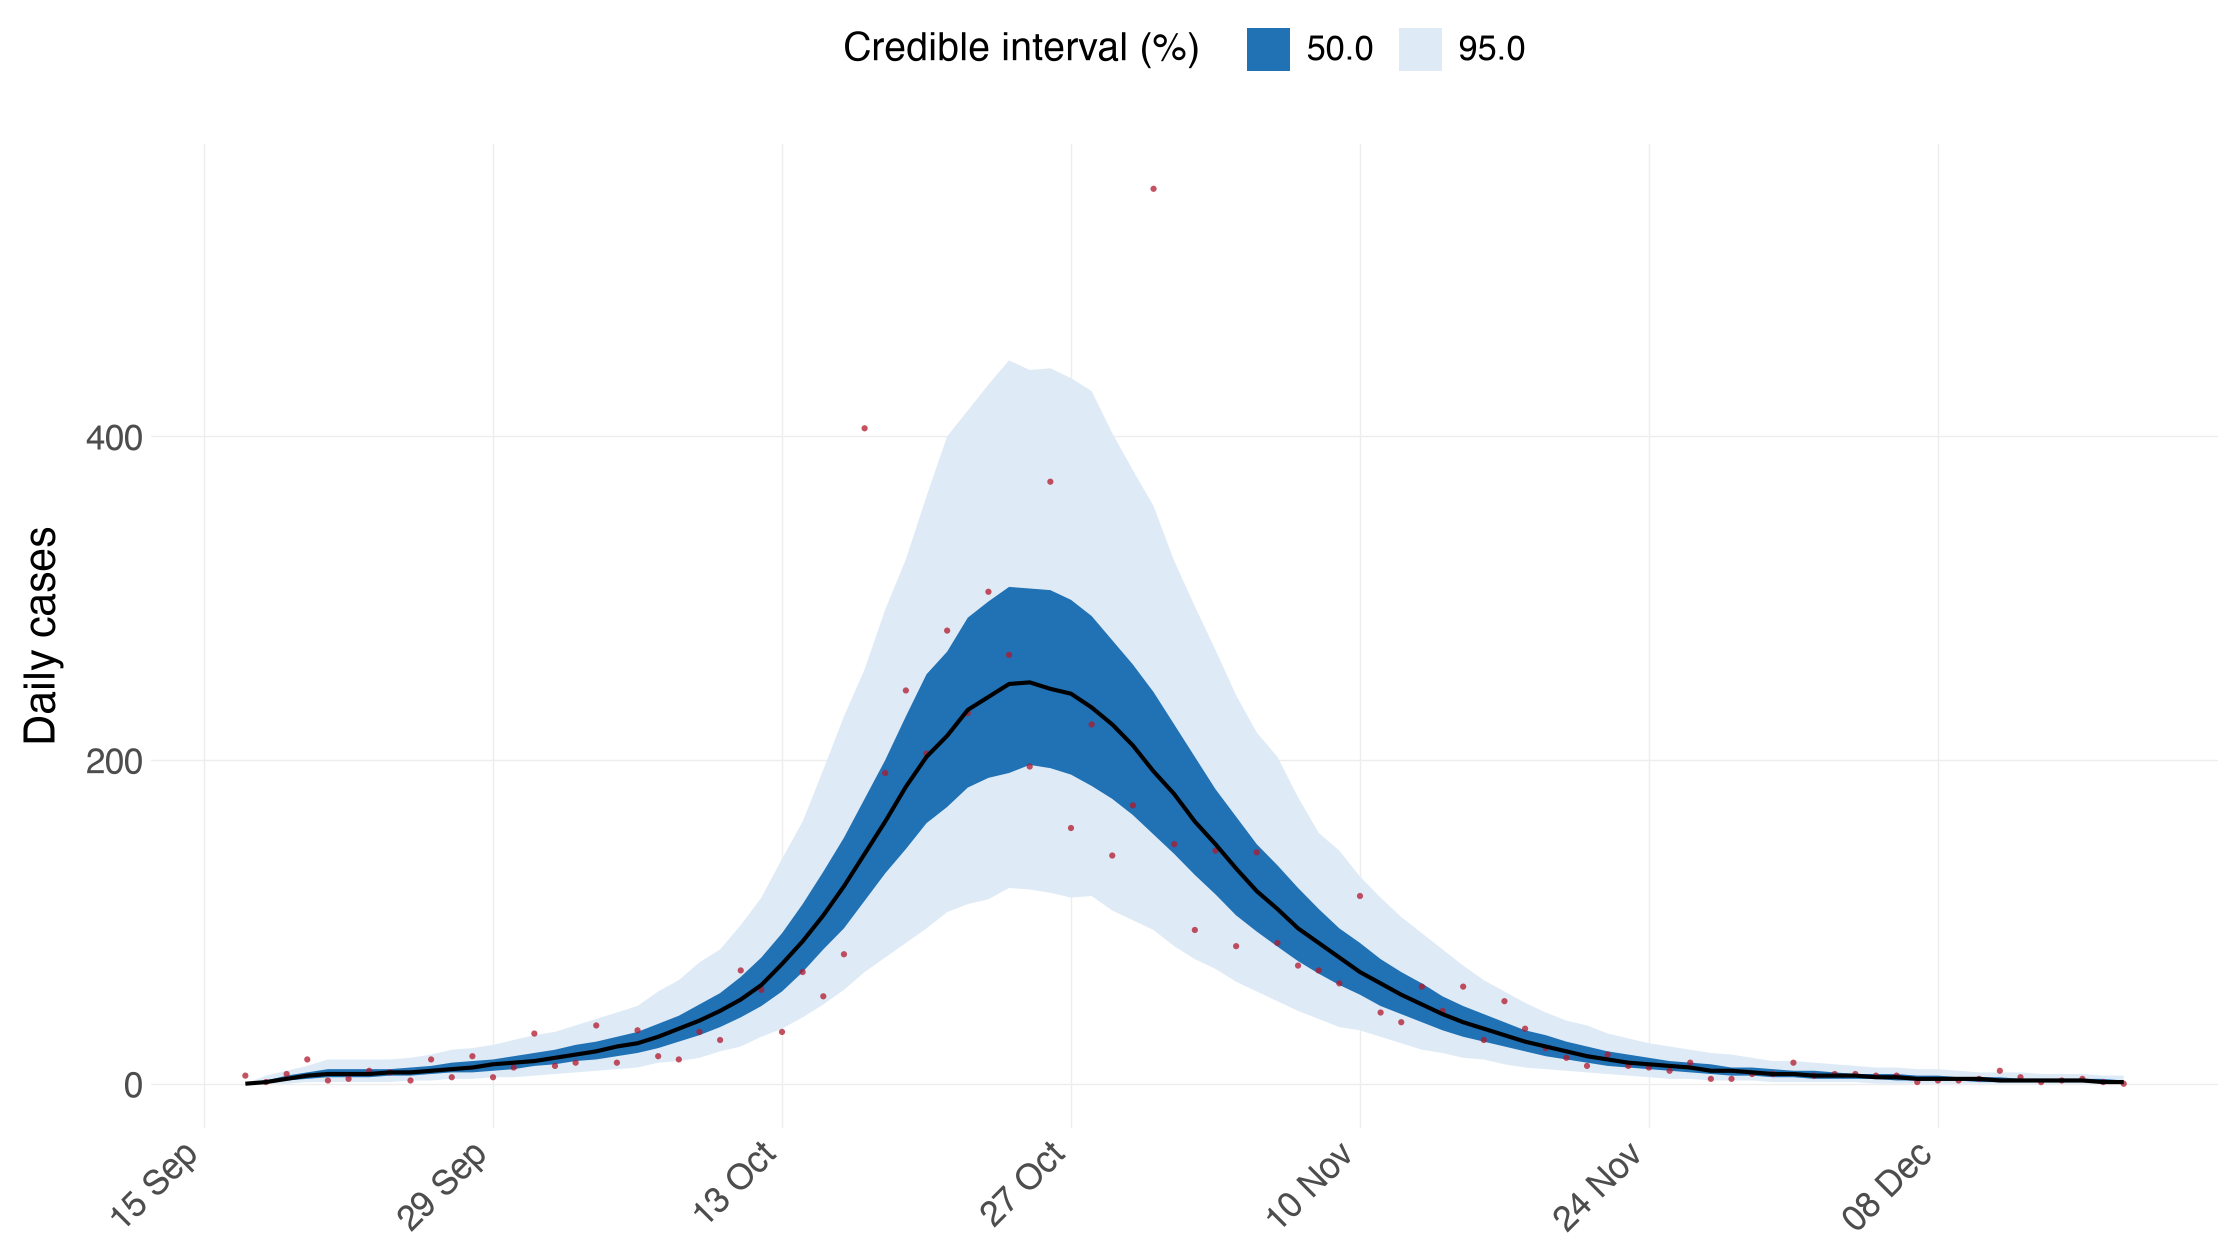
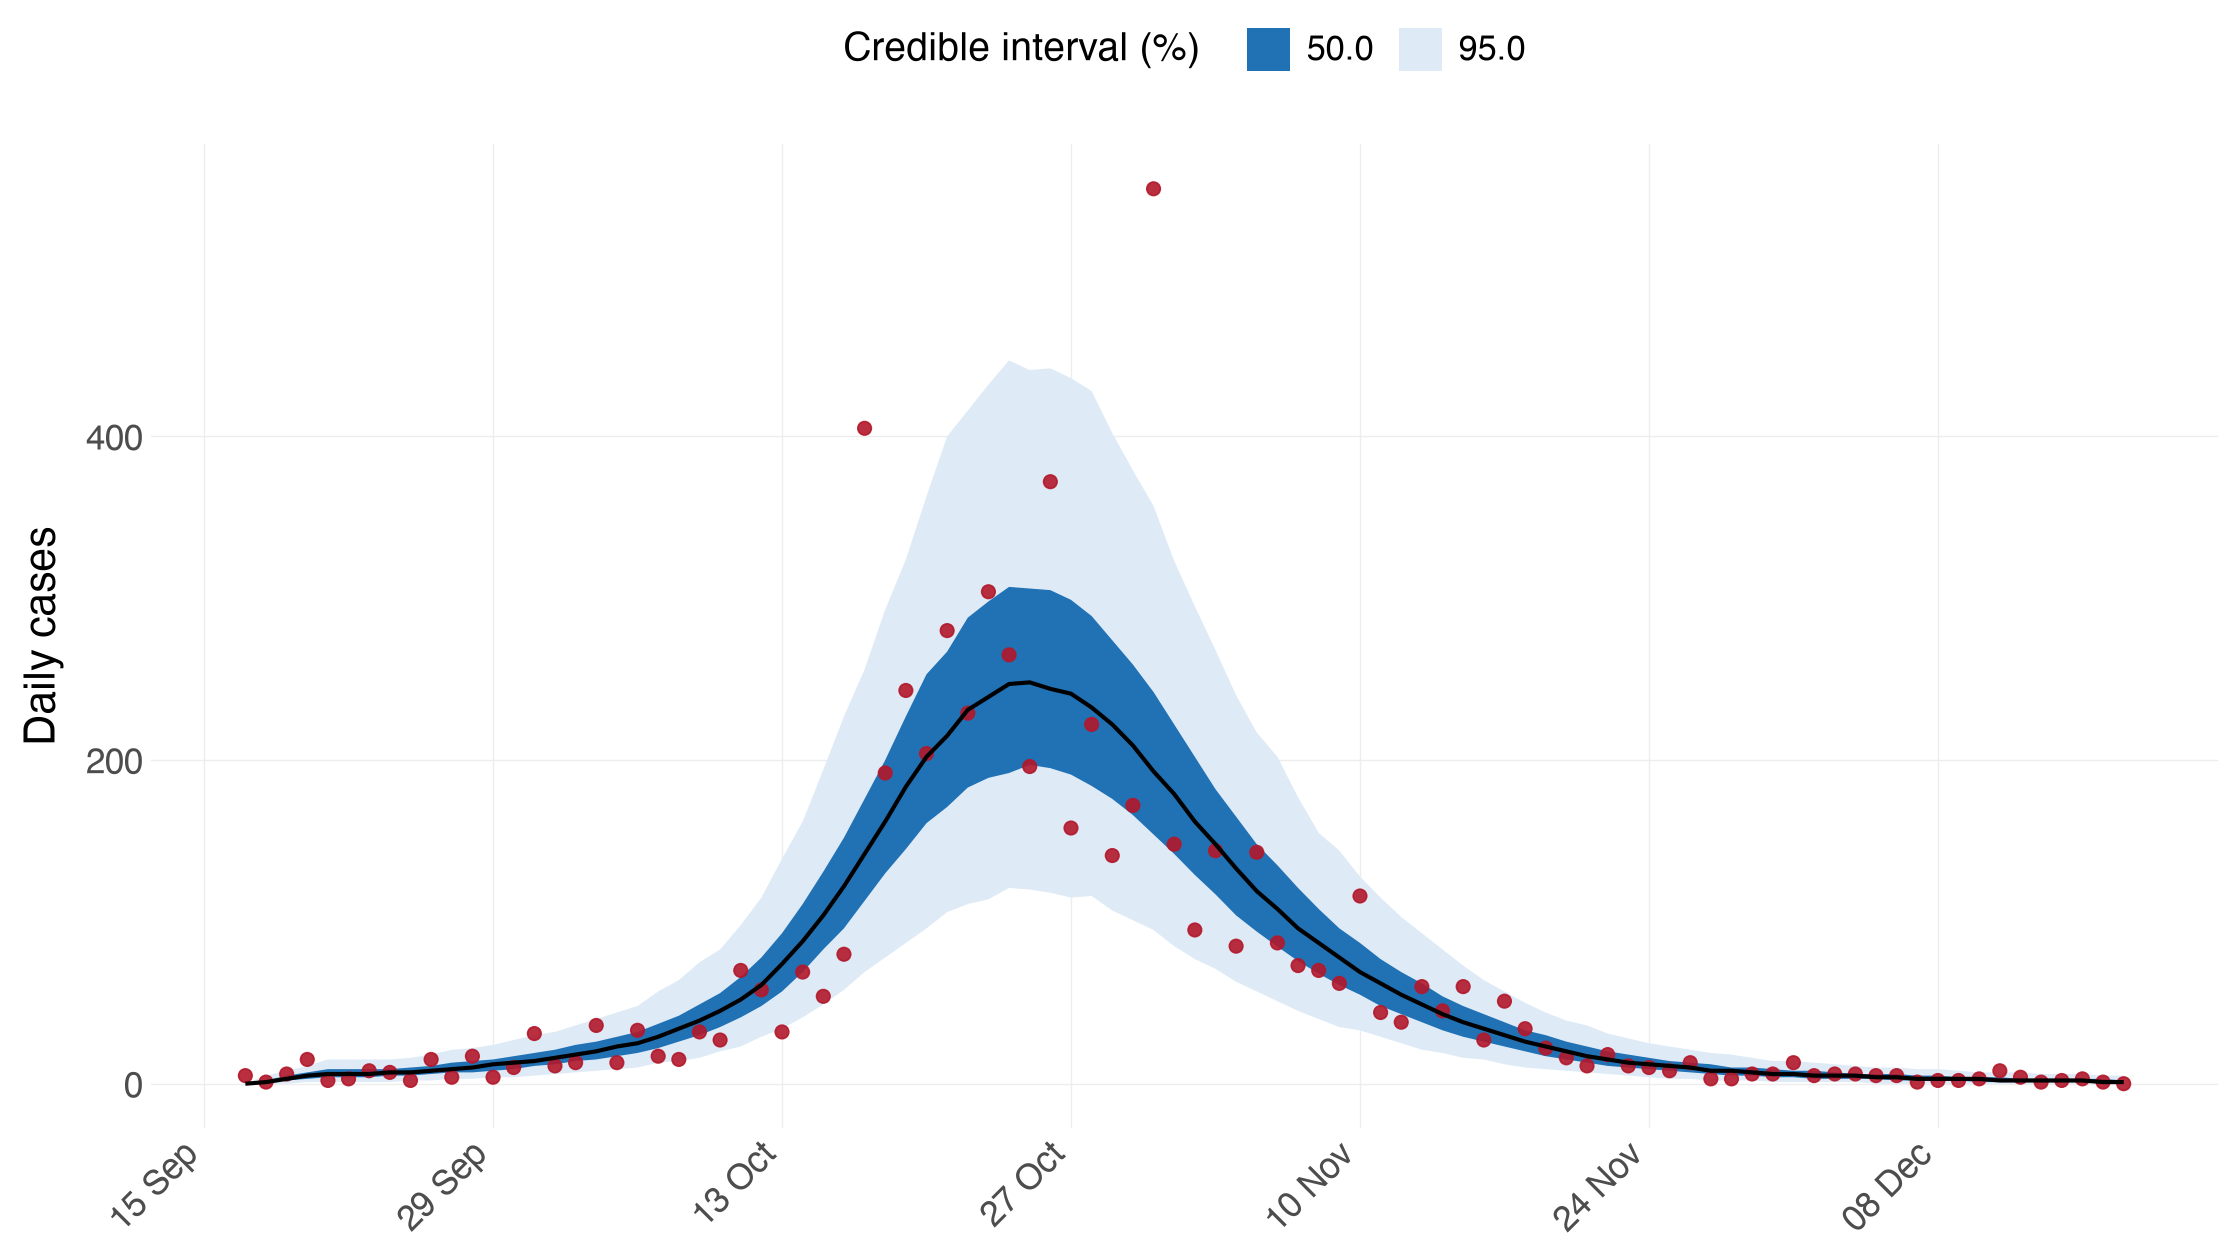
Re-bake the Python tutorials with visible observation points
All six pages regenerated so the published figures carry the larger observed
markers from 664c5f2 -- at size 0.9 with stroke=0 they were near-invisible
against the credible ribbons, which defeats the purpose of a posterior
predictive check.

The docs stamp is written automatically because this was a full bake; both
halves now report fresh, so `make docs-check` confirms the published numbers
correspond to the committed source.

Verified in the baked output rather than assumed: no tracebacks in any page, the
removed model comparison leaves no trace in flaxman.md, and b117.md still lands
on the published advantage (1.68 / 1.77 / 1.94 against 1.68 / 1.76 / 1.94).

diff --git a/python/docs/tutorials/flaxman.md b/python/docs/tutorials/flaxman.md
@@ -87,13 +87,6 @@ from epidemia.core import (
 from epidemia.priors import normal, shifted_gamma
 ```
 
-    /Users/smishra/Documents/GitHub/epidemia/python/.venv/lib/python3.12/site-packages/arviz/__init__.py:50: FutureWarning: 
-    ArviZ is undergoing a major refactor to improve flexibility and extensibility while maintaining a user-friendly interface.
-    Some upcoming changes may be backward incompatible.
-    For details and migration guidance, visit: https://python.arviz.org/en/latest/user_guide/migration_guide.html
-      warn(
-
-
 ## Data
 
 The same 11 countries and five interventions both models use.
@@ -233,17 +226,17 @@ print(f"{len(panel.regions)} countries, {panel.X.shape[2]} NPIs, "
 print("NPI order:", NPIS)
 ```
 
-    /var/folders/3b/9h2hhrtd6m10021mpjqtv6s40000gn/T/ipykernel_76867/730704751.py:64: UserWarning: 'Austria': only 0 day(s) before cumulative _win exceeded 0, fewer than seed_offset=1; starting at the first available day.
-    /var/folders/3b/9h2hhrtd6m10021mpjqtv6s40000gn/T/ipykernel_76867/730704751.py:64: UserWarning: 'Belgium': only 0 day(s) before cumulative _win exceeded 0, fewer than seed_offset=1; starting at the first available day.
-    /var/folders/3b/9h2hhrtd6m10021mpjqtv6s40000gn/T/ipykernel_76867/730704751.py:64: UserWarning: 'Denmark': only 0 day(s) before cumulative _win exceeded 0, fewer than seed_offset=1; starting at the first available day.
-    /var/folders/3b/9h2hhrtd6m10021mpjqtv6s40000gn/T/ipykernel_76867/730704751.py:64: UserWarning: 'France': only 0 day(s) before cumulative _win exceeded 0, fewer than seed_offset=1; starting at the first available day.
-    /var/folders/3b/9h2hhrtd6m10021mpjqtv6s40000gn/T/ipykernel_76867/730704751.py:64: UserWarning: 'Germany': only 0 day(s) before cumulative _win exceeded 0, fewer than seed_offset=1; starting at the first available day.
-    /var/folders/3b/9h2hhrtd6m10021mpjqtv6s40000gn/T/ipykernel_76867/730704751.py:64: UserWarning: 'Italy': only 0 day(s) before cumulative _win exceeded 0, fewer than seed_offset=1; starting at the first available day.
-    /var/folders/3b/9h2hhrtd6m10021mpjqtv6s40000gn/T/ipykernel_76867/730704751.py:64: UserWarning: 'Norway': only 0 day(s) before cumulative _win exceeded 0, fewer than seed_offset=1; starting at the first available day.
-    /var/folders/3b/9h2hhrtd6m10021mpjqtv6s40000gn/T/ipykernel_76867/730704751.py:64: UserWarning: 'Spain': only 0 day(s) before cumulative _win exceeded 0, fewer than seed_offset=1; starting at the first available day.
-    /var/folders/3b/9h2hhrtd6m10021mpjqtv6s40000gn/T/ipykernel_76867/730704751.py:64: UserWarning: 'Sweden': only 0 day(s) before cumulative _win exceeded 0, fewer than seed_offset=1; starting at the first available day.
-    /var/folders/3b/9h2hhrtd6m10021mpjqtv6s40000gn/T/ipykernel_76867/730704751.py:64: UserWarning: 'Switzerland': only 0 day(s) before cumulative _win exceeded 0, fewer than seed_offset=1; starting at the first available day.
-    /var/folders/3b/9h2hhrtd6m10021mpjqtv6s40000gn/T/ipykernel_76867/730704751.py:64: UserWarning: 'United_Kingdom': only 0 day(s) before cumulative _win exceeded 0, fewer than seed_offset=1; starting at the first available day.
+    /var/folders/3b/9h2hhrtd6m10021mpjqtv6s40000gn/T/ipykernel_95919/730704751.py:64: UserWarning: 'Austria': only 0 day(s) before cumulative _win exceeded 0, fewer than seed_offset=1; starting at the first available day.
+    /var/folders/3b/9h2hhrtd6m10021mpjqtv6s40000gn/T/ipykernel_95919/730704751.py:64: UserWarning: 'Belgium': only 0 day(s) before cumulative _win exceeded 0, fewer than seed_offset=1; starting at the first available day.
+    /var/folders/3b/9h2hhrtd6m10021mpjqtv6s40000gn/T/ipykernel_95919/730704751.py:64: UserWarning: 'Denmark': only 0 day(s) before cumulative _win exceeded 0, fewer than seed_offset=1; starting at the first available day.
+    /var/folders/3b/9h2hhrtd6m10021mpjqtv6s40000gn/T/ipykernel_95919/730704751.py:64: UserWarning: 'France': only 0 day(s) before cumulative _win exceeded 0, fewer than seed_offset=1; starting at the first available day.
+    /var/folders/3b/9h2hhrtd6m10021mpjqtv6s40000gn/T/ipykernel_95919/730704751.py:64: UserWarning: 'Germany': only 0 day(s) before cumulative _win exceeded 0, fewer than seed_offset=1; starting at the first available day.
+    /var/folders/3b/9h2hhrtd6m10021mpjqtv6s40000gn/T/ipykernel_95919/730704751.py:64: UserWarning: 'Italy': only 0 day(s) before cumulative _win exceeded 0, fewer than seed_offset=1; starting at the first available day.
+    /var/folders/3b/9h2hhrtd6m10021mpjqtv6s40000gn/T/ipykernel_95919/730704751.py:64: UserWarning: 'Norway': only 0 day(s) before cumulative _win exceeded 0, fewer than seed_offset=1; starting at the first available day.
+    /var/folders/3b/9h2hhrtd6m10021mpjqtv6s40000gn/T/ipykernel_95919/730704751.py:64: UserWarning: 'Spain': only 0 day(s) before cumulative _win exceeded 0, fewer than seed_offset=1; starting at the first available day.
+    /var/folders/3b/9h2hhrtd6m10021mpjqtv6s40000gn/T/ipykernel_95919/730704751.py:64: UserWarning: 'Sweden': only 0 day(s) before cumulative _win exceeded 0, fewer than seed_offset=1; starting at the first available day.
+    /var/folders/3b/9h2hhrtd6m10021mpjqtv6s40000gn/T/ipykernel_95919/730704751.py:64: UserWarning: 'Switzerland': only 0 day(s) before cumulative _win exceeded 0, fewer than seed_offset=1; starting at the first available day.
+    /var/folders/3b/9h2hhrtd6m10021mpjqtv6s40000gn/T/ipykernel_95919/730704751.py:64: UserWarning: 'United_Kingdom': only 0 day(s) before cumulative _win exceeded 0, fewer than seed_offset=1; starting at the first available day.
 
 
     i2o mean lag: paper 23.899, epidemia default 24.400

diff --git a/python/docs/tutorials/partial-pooling.md b/python/docs/tutorials/partial-pooling.md
@@ -144,7 +144,7 @@ az.summary(idata_pp, var_names=["beta", "sd"])
 
     [epidemia] compiling the log-density (numba backend)... 
 
-    done in 33.8s
+    done in 20.6s
 
 
     [epidemia] sampling 4 chains x (1000 tune + 500 draws)
@@ -251,7 +251,7 @@ az.summary(idata_pp, var_names=["beta", "sd"])
         Finished Chains:
         <span id="active-chains">4</span>
     </p>
-    <p>Sampling for 45 seconds</p>
+    <p>Sampling for a minute</p>
     <p>
         Estimated Time to Completion:
         <span id="eta">now</span>
@@ -333,7 +333,7 @@ az.summary(idata_pp, var_names=["beta", "sd"])
 
 
 
-    [epidemia] sampled in 45.5s
+    [epidemia] sampled in 49.5s
 
 
     divergences: 1
@@ -520,7 +520,7 @@ eff = {
 
     [epidemia] compiling the log-density (numba backend)... 
 
-    done in 28.8s
+    done in 20.1s
 
 
     [epidemia] sampling 4 chains x (1000 tune + 500 draws)
@@ -709,7 +709,7 @@ eff = {
 
 
 
-    [epidemia] sampled in 71.7s
+    [epidemia] sampled in 67.1s
 
 
     [epidemia] compiling the log-density (numba backend)... 
@@ -719,7 +719,7 @@ eff = {
     /Users/smishra/Documents/GitHub/epidemia/python/src/epidemia/multilevel.py:649: UserWarning: Bulk ESS of 60 for sd_intercept is 15 per chain, below the 100 per chain that keeps posterior summaries stable.
 
 
-    done in 28.5s
+    done in 20.2s
 
 
     [epidemia] sampling 4 chains x (1000 tune + 500 draws)
@@ -826,7 +826,7 @@ eff = {
         Finished Chains:
         <span id="active-chains">4</span>
     </p>
-    <p>Sampling for 20 seconds</p>
+    <p>Sampling for 19 seconds</p>
     <p>
         Estimated Time to Completion:
         <span id="eta">now</span>
@@ -908,7 +908,7 @@ eff = {
 
 
 
-    [epidemia] sampled in 20.6s
+    [epidemia] sampled in 19.9s
 
 
     /Users/smishra/Documents/GitHub/epidemia/python/src/epidemia/multilevel.py:649: UserWarning: 3 divergent transitions. These bias the posterior and more draws will not help; raise target_accept above its current value or reparameterise.

diff --git a/python/docs/tutorials/b117.md b/python/docs/tutorials/b117.md
@@ -131,8 +131,8 @@ print(f"{int(panel.lengths.sum())} rows (R vignette: 240)")
     240 rows (R vignette: 240)
 
 
-    /var/folders/3b/9h2hhrtd6m10021mpjqtv6s40000gn/T/ipykernel_67273/220630698.py:2: UserWarning: 'Kent and Medway negative': only 0 day(s) before cumulative _win exceeded 0, fewer than seed_offset=1; starting at the first available day.
-    /var/folders/3b/9h2hhrtd6m10021mpjqtv6s40000gn/T/ipykernel_67273/220630698.py:2: UserWarning: 'Kent and Medway positive': only 0 day(s) before cumulative _win exceeded 0, fewer than seed_offset=1; starting at the first available day.
+    /var/folders/3b/9h2hhrtd6m10021mpjqtv6s40000gn/T/ipykernel_98917/220630698.py:2: UserWarning: 'Kent and Medway negative': only 0 day(s) before cumulative _win exceeded 0, fewer than seed_offset=1; starting at the first available day.
+    /var/folders/3b/9h2hhrtd6m10021mpjqtv6s40000gn/T/ipykernel_98917/220630698.py:2: UserWarning: 'Kent and Medway positive': only 0 day(s) before cumulative _win exceeded 0, fewer than seed_offset=1; starting at the first available day.
 
 
 ### The two random walks

diff --git a/python/docs/tutorials/multiple-obs.md b/python/docs/tutorials/multiple-obs.md
@@ -494,11 +494,11 @@ print(f"prior R_t: median {qs[1]:.2f}, 90% interval [{qs[0]:.2f}, {qs[2]:.2f}]")
 print(f"(the scaled_logit cap is {config.R_link_K}, so R_t cannot exceed it)")
 ```
 
-    prior R_t: median 0.85, 90% interval [0.20, 2.02]
+    prior R_t: median 0.83, 90% interval [0.20, 2.11]
     (the scaled_logit cap is 7.0, so R_t cannot exceed it)
 
 
-    /Users/smishra/Documents/GitHub/epidemia/python/src/epidemia/multilevel.py:649: UserWarning: R-hat of 1.020 for rw_noise[0, 37] exceeds 1.01, so the chains have not mixed.
+    /Users/smishra/Documents/GitHub/epidemia/python/src/epidemia/multilevel.py:649: UserWarning: R-hat of 1.020 for rw_noise[0, 11] exceeds 1.01, so the chains have not mixed.
 
 
 
